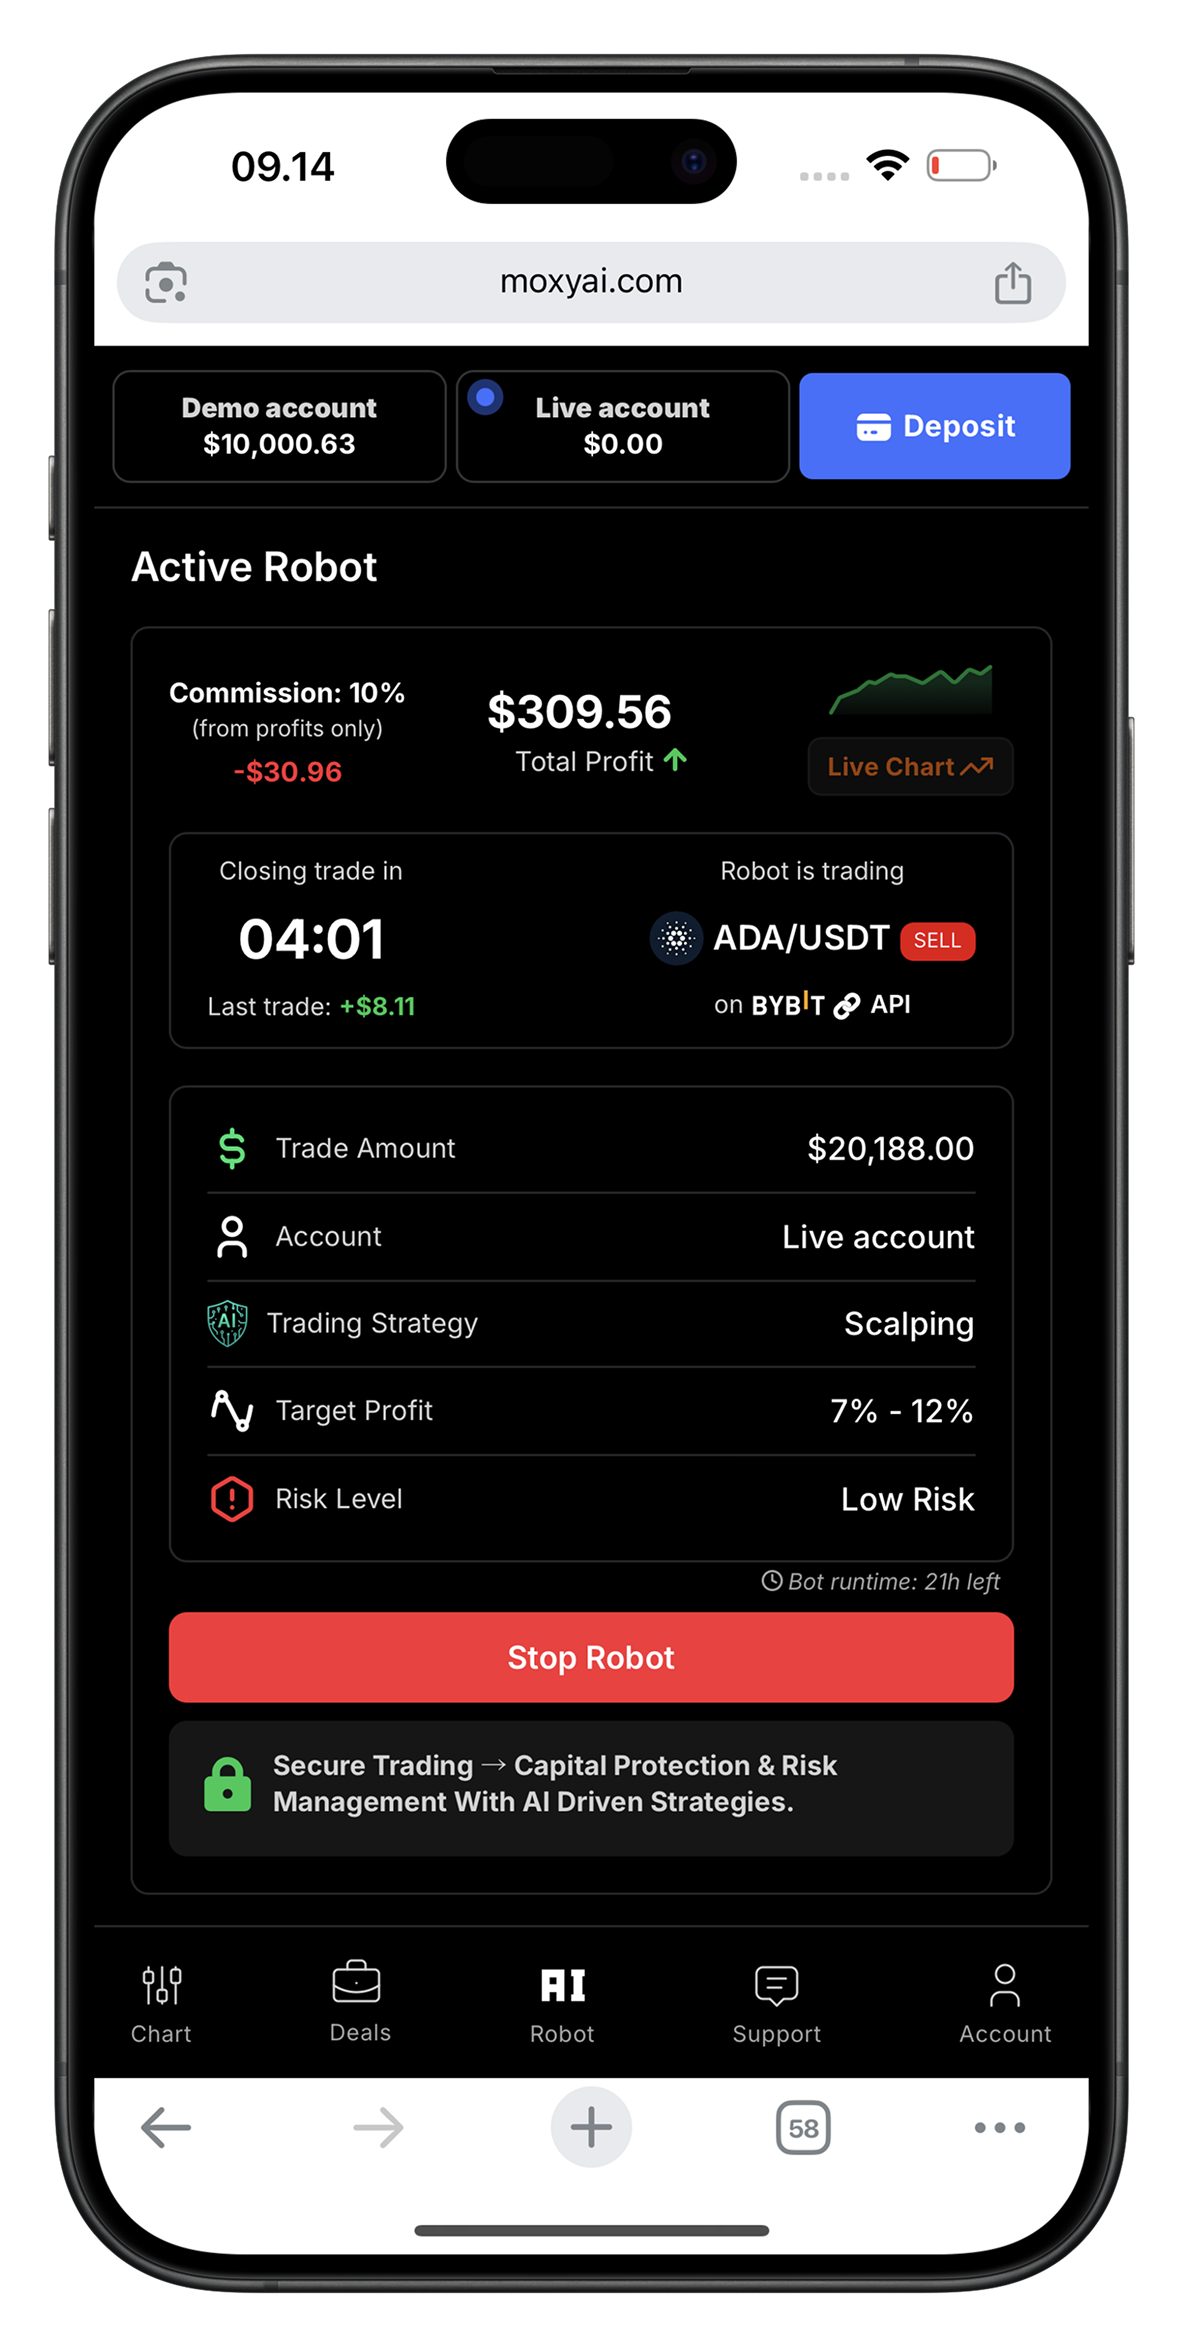
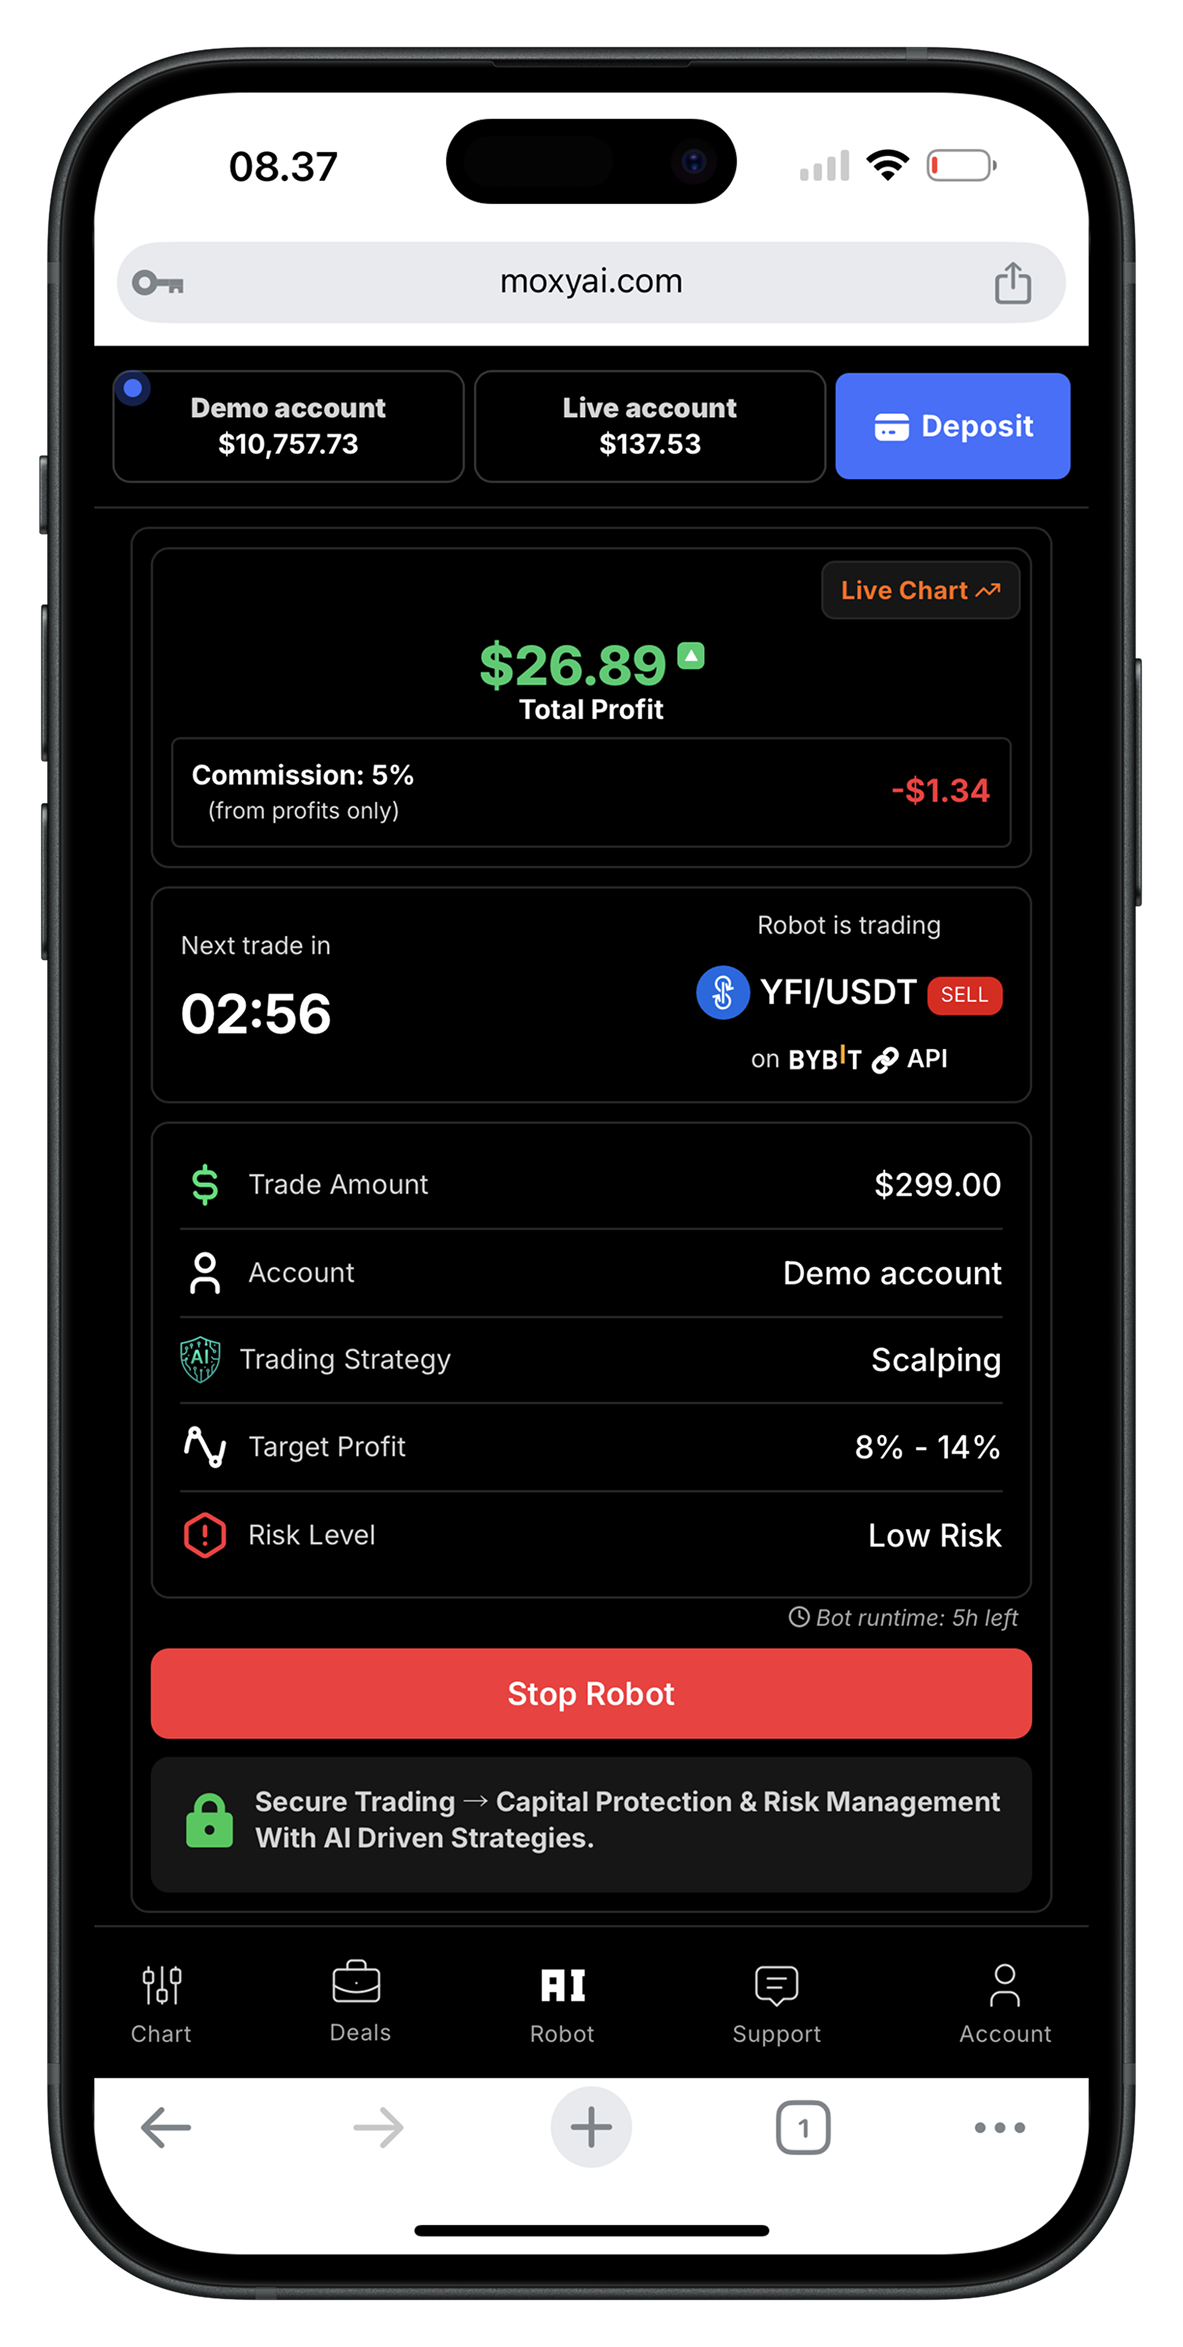
wip

diff --git a/resources/views/livewire/dashboard/traderoom.blade.php b/resources/views/livewire/dashboard/traderoom.blade.php
@@ -478,18 +478,11 @@
                                         </div>
                                         <div class="flex-1">
                                             <p class="font-light text-xs text-white">Closing all opened positions on
+                                                <img class="inline w-8 align-middle"
+                                                    src="{{ asset('assets/icons/xtb.svg') }}" alt="xtb-logo"> and
+                                                <img class="inline w-8 align-middle"
+                                                    src="{{ asset('assets/icons/bybit.svg') }}" alt="bybit-logo">
                                             </p>
-                                        </div>
-                                        <div class="flex-none -mt-0.5">
-                                            <img class="inline w-7" src="{{ asset('assets/icons/xtb.svg') }}"
-                                                alt="xtb-logo">
-                                        </div>
-                                        <div class="flex-none">
-                                            <p class="font-light text-xs text-white"> and </p>
-                                        </div>
-                                        <div class="flex-none -mt-1">
-                                            <img class="inline w-7" src="{{ asset('assets/icons/bybit.svg') }}"
-                                                alt="bybit-logo">
                                         </div>
                                     </div>
                                 </template>
@@ -514,18 +507,11 @@
                                         </div>
                                         <div class="flex-1">
                                             <p class="font-light text-xs text-white">Closing all opened positions on
+                                                <img class="inline w-8 align-middle"
+                                                    src="{{ asset('assets/icons/xtb.svg') }}" alt="xtb-logo"> and
+                                                <img class="inline w-8 align-middle"
+                                                    src="{{ asset('assets/icons/bybit.svg') }}" alt="bybit-logo">
                                             </p>
-                                        </div>
-                                        <div class="flex-none -mt-0.5">
-                                            <img class="inline w-7" src="{{ asset('assets/icons/xtb.svg') }}"
-                                                alt="xtb-logo">
-                                        </div>
-                                        <div class="flex-none">
-                                            <p class="font-light text-xs text-white"> and </p>
-                                        </div>
-                                        <div class="flex-none -mt-1">
-                                            <img class="inline w-7" src="{{ asset('assets/icons/bybit.svg') }}"
-                                                alt="bybit-logo">
                                         </div>
                                     </div>
                                 </template>

diff --git a/resources/views/livewire/dashboard/confirm-deposit.blade.php b/resources/views/livewire/dashboard/confirm-deposit.blade.php
@@ -394,7 +394,7 @@
             copyWalletAddress(wire) {
                 var copyText = document.getElementById("address");
                 copyText.select();
-                copyText.setSelectionRange(0, 99999); // For mobile devices
+                copyText.setSelectionRange(0, 99999);
                 navigator.clipboard.writeText(copyText.value);
                 toast('info', 'Copied');
                 if (wire.hasUserMadeTwoSuccessfulDeposits) {
@@ -404,7 +404,10 @@
                     if (this.isClickOnPaidViewedOnce) {
                         return;
                     }
-                    this.isClickOnPaidModalCopyOpen = true;
+                    // Only show the modal if QR modal is not open
+                    if (!this.isQRModalOpen) {
+                        this.isClickOnPaidModalCopyOpen = true;
+                    }
                     this.isClickOnPaidViewedOnce = true;
                 }, 1000);
             },

diff --git a/resources/views/livewire/homepage.blade.php b/resources/views/livewire/homepage.blade.php
@@ -224,8 +224,7 @@
                                                         width="24" height="auto"
                                                         src="wp-content/uploads/2025/03/plaform.svg">
                                                 </div>
-                                                <h2 class="main-block_child"><span
-                                                        class="purple-gradient">$10,000</span> Demo Account
+                                                <h2 class="main-block_child">$10,000 Demo Account
                                                 </h2>
                                                 <p class="main-block_child">Every new user gets a free $10,000 demo
                                                     account to test the AI bot and understand how it works.</p>

diff --git a/app/Livewire/Dashboard/ConfirmDeposit.php b/app/Livewire/Dashboard/ConfirmDeposit.php
@@ -10,6 +10,7 @@ use App\Notifications\DepositIntentInitiated;
 use App\Notifications\TransactionOccured;
 use Illuminate\Support\Facades\Notification;
 use Livewire\Attributes\Layout;
+use Livewire\Attributes\Renderless;
 use Livewire\Attributes\Url;
 use Livewire\Component;
 
@@ -78,6 +79,7 @@ class ConfirmDeposit extends Component
     }
   }
 
+  #[Renderless]
   public function storeDepositIntent()
   {
     try {
